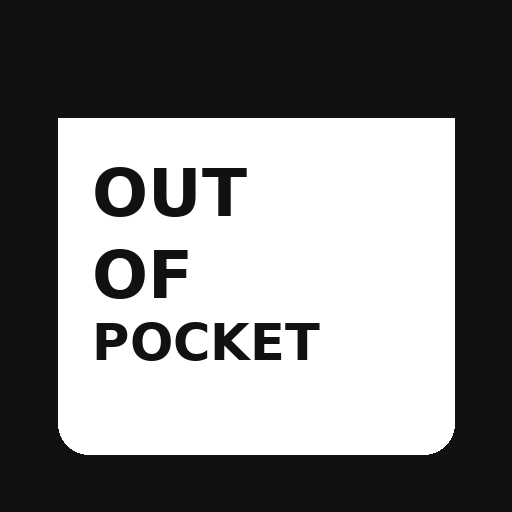
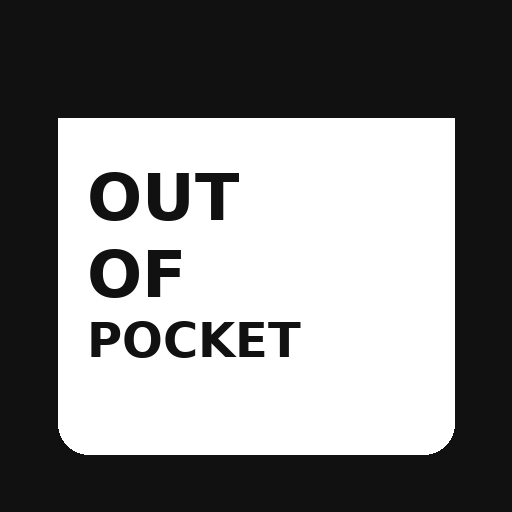
Initial commit

Changed region(s): [[0.1562, 0.625, 0.625, 0.7188], [0.1562, 0.3125, 0.5, 0.4375], [0.1562, 0.4688, 0.375, 0.5938]]

diff --git a/index.html b/index.html
@@ -1,16 +1,47 @@
 <!doctype html>
 <html lang="en">
-  <head>
-    <meta charset="UTF-8" />
-    <meta name="viewport" content="width=device-width, initial-scale=1.0" />
-    <meta name="theme-color" content="#111111" />
-    <link rel="manifest" href="manifest.webmanifest" />
-    <link rel="icon" href="icon-192.png" />
-    <title>Out of Pocket</title>
-    <script type="module" crossorigin src="assets/index-DeJ6pp-D.js"></script>
-    <link rel="stylesheet" crossorigin href="assets/index-VMFpPU3P.css">
-  </head>
-  <body>
-    <div id="root"></div>
-  </body>
+<head>
+  <meta charset="utf-8">
+  <meta name="viewport" content="width=device-width,initial-scale=1">
+  <title>Out of Pocket</title>
+  <meta name="theme-color" content="#111111">
+  <link rel="manifest" href="./manifest.webmanifest">
+  <link rel="icon" href="./icon-192.png">
+  <link rel="stylesheet" href="./styles.css">
+</head>
+<body>
+  <main class="app">
+    <header class="hero">
+      <img src="./icon-192.png" class="logo" alt="Out of Pocket">
+      <div>
+        <h1>Out of Pocket</h1>
+        <p>A game for people who should probably stop talking but don’t.</p>
+      </div>
+    </header>
+
+    <div id="toast" class="toast hidden">Everything’s locked. What exactly are you hoping for here?</div>
+
+    <section class="toolbar">
+      <button id="newHand">New Hand</button>
+      <button id="swapLine">Swap Line</button>
+      <button id="swapPockets">Swap Pocket Cards</button>
+      <label><input id="voiceToggle" type="checkbox"> Voice Cards</label>
+      <label><input id="changeToggle" type="checkbox"> Pocket Change Cards</label>
+    </section>
+
+    <section id="table" class="table"></section>
+
+    <section class="result">
+      <h2>Line, please.</h2>
+      <p id="builtLine">Draw a hand to start.</p>
+      <button id="copyLine">Copy</button>
+    </section>
+
+    <details class="editorNote">
+      <summary>Customize the decks</summary>
+      <p>Edit <code>cards.json</code>. Decks are <code>lines</code>, <code>pockets</code>, <code>voices</code>, and <code>pocketChanges</code>. Line cards use <code>blanks</code>: 1 or 2.</p>
+    </details>
+  </main>
+  <script src="./app.js"></script>
+</body>
 </html>

diff --git a/app.js b/app.js
@@ -1,0 +1,28 @@
+let deck=null;
+let state={line:null,pockets:[null,null],voice:null,change:null,locked:{line:false,pocket1:false,pocket2:false,voice:false,change:false},voiceOn:false,changeOn:false};
+
+function save(){localStorage.setItem("oop-state-static-v1",JSON.stringify(state));}
+function load(){const s=localStorage.getItem("oop-state-static-v1");if(s){try{state=JSON.parse(s)}catch(e){}}}
+function pick(list,avoid){if(!list||!list.length)return "";let item=list[Math.floor(Math.random()*list.length)],tries=0;while(item===avoid&&list.length>1&&tries<30){item=list[Math.floor(Math.random()*list.length)];tries++;}return item;}
+function blanks(){return state.line?Number(state.line.blanks||1):1;}
+function normalize(){if(blanks()===1){state.pockets[1]=null;state.locked.pocket2=false;}else if(!state.pockets[1]){state.pockets[1]=pick(deck.pockets,state.pockets[0]);}}
+function showToast(){const t=document.getElementById("toast");t.classList.remove("hidden");clearTimeout(window.toastTimer);window.toastTimer=setTimeout(()=>t.classList.add("hidden"),2200);}
+function visibleKeys(){const k=["line","pocket1"];if(blanks()===2)k.push("pocket2");if(state.voiceOn)k.push("voice");if(state.changeOn)k.push("change");return k;}
+function allLocked(){return visibleKeys().every(k=>state.locked[k]);}
+function card(kind,label,text,lockKey,swapFn){return `<article class="card ${kind} ${state.locked[lockKey]?"locked":""}"><span class="type">${label}</span><div class="cardText">${text||"?"}</div><div class="actions"><button data-lock="${lockKey}">${state.locked[lockKey]?"Unlock":"Lock"}</button><button data-swap="${swapFn}">Swap</button></div></article>`}
+function built(){if(!state.line)return "Draw a hand to start.";let text=state.line.text.replace("___",state.pockets[0]||"___");if(blanks()===2)text=text.replace("___",state.pockets[1]||"___");if(state.voice)text+=" | Voice: "+state.voice;if(state.change)text+=" | Pocket Change: "+state.change;return text;}
+function render(){normalize();const table=document.getElementById("table");let html="";html+=card("lineCard","LINE",state.line?state.line.text:"Tap New Hand","line","line");html+=card("pocketCard","POCKET",state.pockets[0],"pocket1","pocket1");if(blanks()===2)html+=card("pocketCard","POCKET",state.pockets[1],"pocket2","pocket2");if(state.voiceOn)html+=card("voiceCard","VOICE",state.voice,"voice","voice");if(state.changeOn)html+=card("changeCard","POCKET CHANGE",state.change,"change","change");table.innerHTML=html;document.getElementById("builtLine").textContent=built();document.getElementById("voiceToggle").checked=state.voiceOn;document.getElementById("changeToggle").checked=state.changeOn;save();}
+function newHand(){if(state.line&&allLocked()){showToast();return;}if(!state.locked.line||!state.line)state.line=pick(deck.lines,state.line);normalize();if(!state.locked.pocket1||!state.pockets[0])state.pockets[0]=pick(deck.pockets,state.pockets[0]);if(blanks()===2&&(!state.locked.pocket2||!state.pockets[1]))state.pockets[1]=pick(deck.pockets,state.pockets[1]);if(state.voiceOn&&(!state.locked.voice||!state.voice))state.voice=pick(deck.voices,state.voice);if(state.changeOn&&(!state.locked.change||!state.change))state.change=pick(deck.pocketChanges,state.change);render();}
+function swapLine(){if(state.locked.line){showToast();return;}state.line=pick(deck.lines,state.line);normalize();render();}
+function swapPockets(){const two=blanks()===2;if(state.locked.pocket1&&(!two||state.locked.pocket2)){showToast();return;}if(!state.locked.pocket1)state.pockets[0]=pick(deck.pockets,state.pockets[0]);if(two&&!state.locked.pocket2)state.pockets[1]=pick(deck.pockets,state.pockets[1]);render();}
+function swapOne(which){if(which==="line")return swapLine();if(which==="pocket1"){if(state.locked.pocket1)return showToast();state.pockets[0]=pick(deck.pockets,state.pockets[0]);}if(which==="pocket2"){if(state.locked.pocket2)return showToast();state.pockets[1]=pick(deck.pockets,state.pockets[1]);}if(which==="voice"){if(state.locked.voice)return showToast();state.voice=pick(deck.voices,state.voice);}if(which==="change"){if(state.locked.change)return showToast();state.change=pick(deck.pocketChanges,state.change);}render();}
+document.addEventListener("click",e=>{const lock=e.target.dataset.lock;const sw=e.target.dataset.swap;if(lock){state.locked[lock]=!state.locked[lock];render();}if(sw)swapOne(sw);});
+document.getElementById("newHand").onclick=newHand;
+document.getElementById("swapLine").onclick=swapLine;
+document.getElementById("swapPockets").onclick=swapPockets;
+document.getElementById("voiceToggle").onchange=e=>{state.voiceOn=e.target.checked;if(!state.voiceOn){state.voice=null;state.locked.voice=false;}else if(!state.voice)state.voice=pick(deck.voices);render();};
+document.getElementById("changeToggle").onchange=e=>{state.changeOn=e.target.checked;if(!state.changeOn){state.change=null;state.locked.change=false;}else if(!state.change)state.change=pick(deck.pocketChanges);render();};
+document.getElementById("copyLine").onclick=()=>navigator.clipboard.writeText(built());
+load();
+fetch("./cards.json",{cache:"no-store"}).then(r=>r.json()).then(data=>{deck=data;render();}).catch(err=>{document.getElementById("builtLine").textContent="Could not load cards.json. Check that all files were uploaded.";console.error(err);});
+if("serviceWorker" in navigator){window.addEventListener("load",()=>navigator.serviceWorker.register("./sw.js").catch(()=>{}));}

diff --git a/sw.js b/sw.js
@@ -1,0 +1,5 @@
+const CACHE="oop-static-v1";
+const ASSETS=["./","./index.html","./styles.css","./app.js","./cards.json","./manifest.webmanifest","./icon-192.png","./icon-512.png"];
+self.addEventListener("install",e=>{self.skipWaiting();e.waitUntil(caches.open(CACHE).then(c=>c.addAll(ASSETS)))});
+self.addEventListener("activate",e=>{e.waitUntil(caches.keys().then(keys=>Promise.all(keys.filter(k=>k!==CACHE).map(k=>caches.delete(k)))));self.clients.claim();});
+self.addEventListener("fetch",e=>{e.respondWith(caches.match(e.request).then(r=>r||fetch(e.request)))});

diff --git a/styles.css b/styles.css
@@ -1,0 +1,1 @@
+*{box-sizing:border-box}body{margin:0;font-family:Arial,Helvetica,sans-serif;background:linear-gradient(135deg,#eee8dd,#d8d0c1);color:#111}.app{max-width:1240px;margin:auto;padding:22px}.hero{display:flex;align-items:center;justify-content:center;gap:18px;margin:8px 0 22px}.logo{width:90px;height:90px;border-radius:22px;box-shadow:0 10px 24px rgba(0,0,0,.16)}h1{font-size:clamp(2.5rem,7vw,5.2rem);line-height:.88;margin:0;letter-spacing:-.07em}.hero p{margin:8px 0 0;font-size:1.1rem;color:#3f3a33;font-weight:800}.toolbar{display:flex;justify-content:center;align-items:center;gap:10px;flex-wrap:wrap;margin-bottom:22px;background:rgba(255,255,255,.58);border:2px solid rgba(17,17,17,.12);border-radius:22px;padding:14px;box-shadow:0 8px 22px rgba(0,0,0,.08)}button{border:0;border-radius:999px;padding:11px 16px;background:#111;color:white;font-weight:900;cursor:pointer}button:active{transform:translateY(1px)}label{font-weight:900;color:#292524}.table{display:grid;grid-template-columns:repeat(auto-fit,minmax(215px,1fr));gap:18px;align-items:stretch}.card{min-height:310px;border-radius:18px;padding:18px;background:white;box-shadow:0 12px 28px rgba(0,0,0,.16);display:flex;flex-direction:column;justify-content:space-between;border:2px solid #111}.type{font-size:.78rem;letter-spacing:.16em;font-weight:900}.cardText{font-size:clamp(1.35rem,2vw,1.75rem);line-height:1.12;font-weight:900;margin:18px 0}.lineCard{background:#111;color:white}.pocketCard{border-top:14px solid #2563eb}.voiceCard{border-top:14px solid #ea580c}.changeCard{border-top:14px solid #dc2626}.actions{display:flex;gap:8px;flex-wrap:wrap}.actions button{flex:1;padding:10px;font-size:.86rem}.lineCard .actions button{background:white;color:#111}.locked{outline:5px solid #facc15;transform:rotate(-.2deg)}.locked .type:after{content:"  LOCKED";color:#facc15}.result{margin:30px auto 0;max-width:820px;background:white;border:2px solid #111;border-radius:22px;padding:22px;text-align:center;box-shadow:0 12px 28px rgba(0,0,0,.16)}.result h2{margin:0;font-size:2rem}.result p{font-size:1.22rem;line-height:1.35;min-height:48px}.toast{max-width:760px;margin:0 auto 14px;background:#111;color:white;border-radius:999px;padding:12px 18px;text-align:center;font-weight:900;box-shadow:0 10px 24px rgba(0,0,0,.16)}.hidden{display:none}.editorNote{margin:22px auto 0;max-width:820px;background:rgba(255,255,255,.64);border-radius:16px;padding:14px 18px;color:#57534e}code{background:#eee7d8;padding:2px 5px;border-radius:5px}@media(max-width:640px){.hero{flex-direction:column;text-align:center}.card{min-height:255px}}